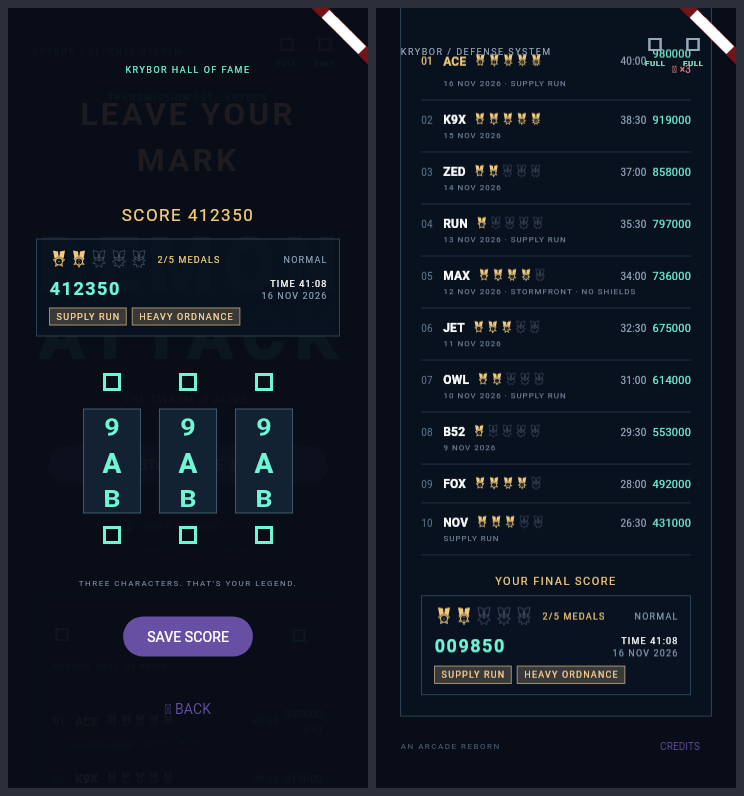
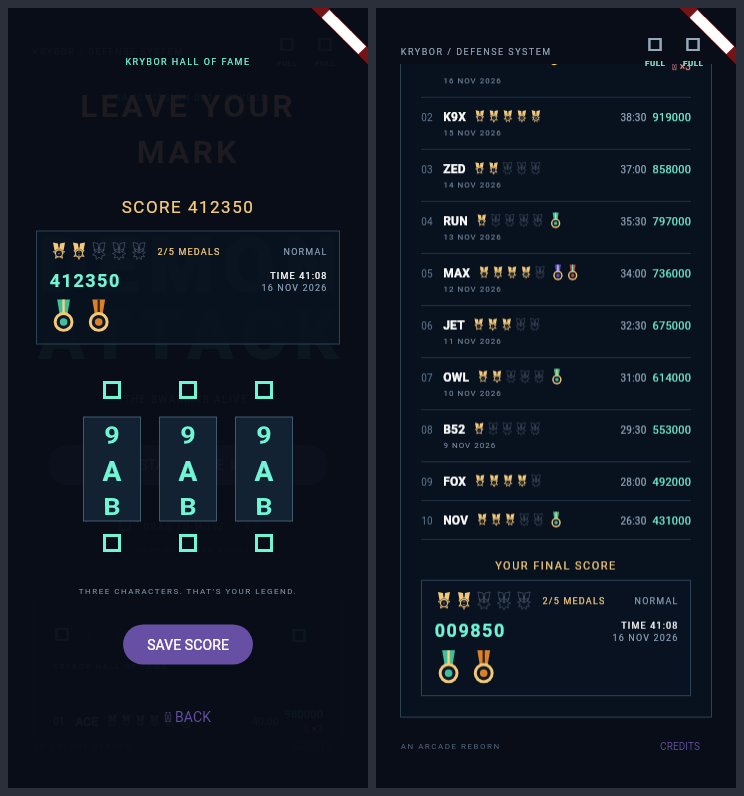
bonus-balance: dispose the review sheet's images; refresh the medal sheet
CLAUDE.md test rule: dispose every ui.Image a test creates. The medal
sheet is re-rendered on game with mission-medals merged (modifiers now
show as mission medals on the run record and board rows).

Claude-Session: https://claude.ai/code/session_01ALj27NA6A3MCHkUBk5WCWy
Tillandsias-Host: macuahuitl
Generated-By: tool=claude-code

diff --git a/test/bonus_balance_review_test.dart b/test/bonus_balance_review_test.dart
@@ -104,6 +104,7 @@ Future<void> _sheet(String path, List<ui.Image> frames) async {
     (h + gap * 2).round(),
   );
   final png = await sheet.toByteData(format: ui.ImageByteFormat.png);
+  sheet.dispose();
   File(path)
     ..createSync(recursive: true)
     ..writeAsBytesSync(png!.buffer.asUint8List());
@@ -410,6 +411,9 @@ void main() {
     await tester.runAsync(
       () => _sheet('art/contact/bonus-balance-medal-screen.png', frames),
     );
+    for (final f in frames) {
+      f.dispose();
+    }
   });
 
   testWidgets('bonus-balance timeline sheet', (tester) async {
@@ -460,6 +464,7 @@ void main() {
         (ph * panels.length + 8).round(),
       );
       final png = await img.toByteData(format: ui.ImageByteFormat.png);
+      img.dispose();
       File('art/contact/bonus-balance-timeline.png')
         ..createSync(recursive: true)
         ..writeAsBytesSync(png!.buffer.asUint8List());
